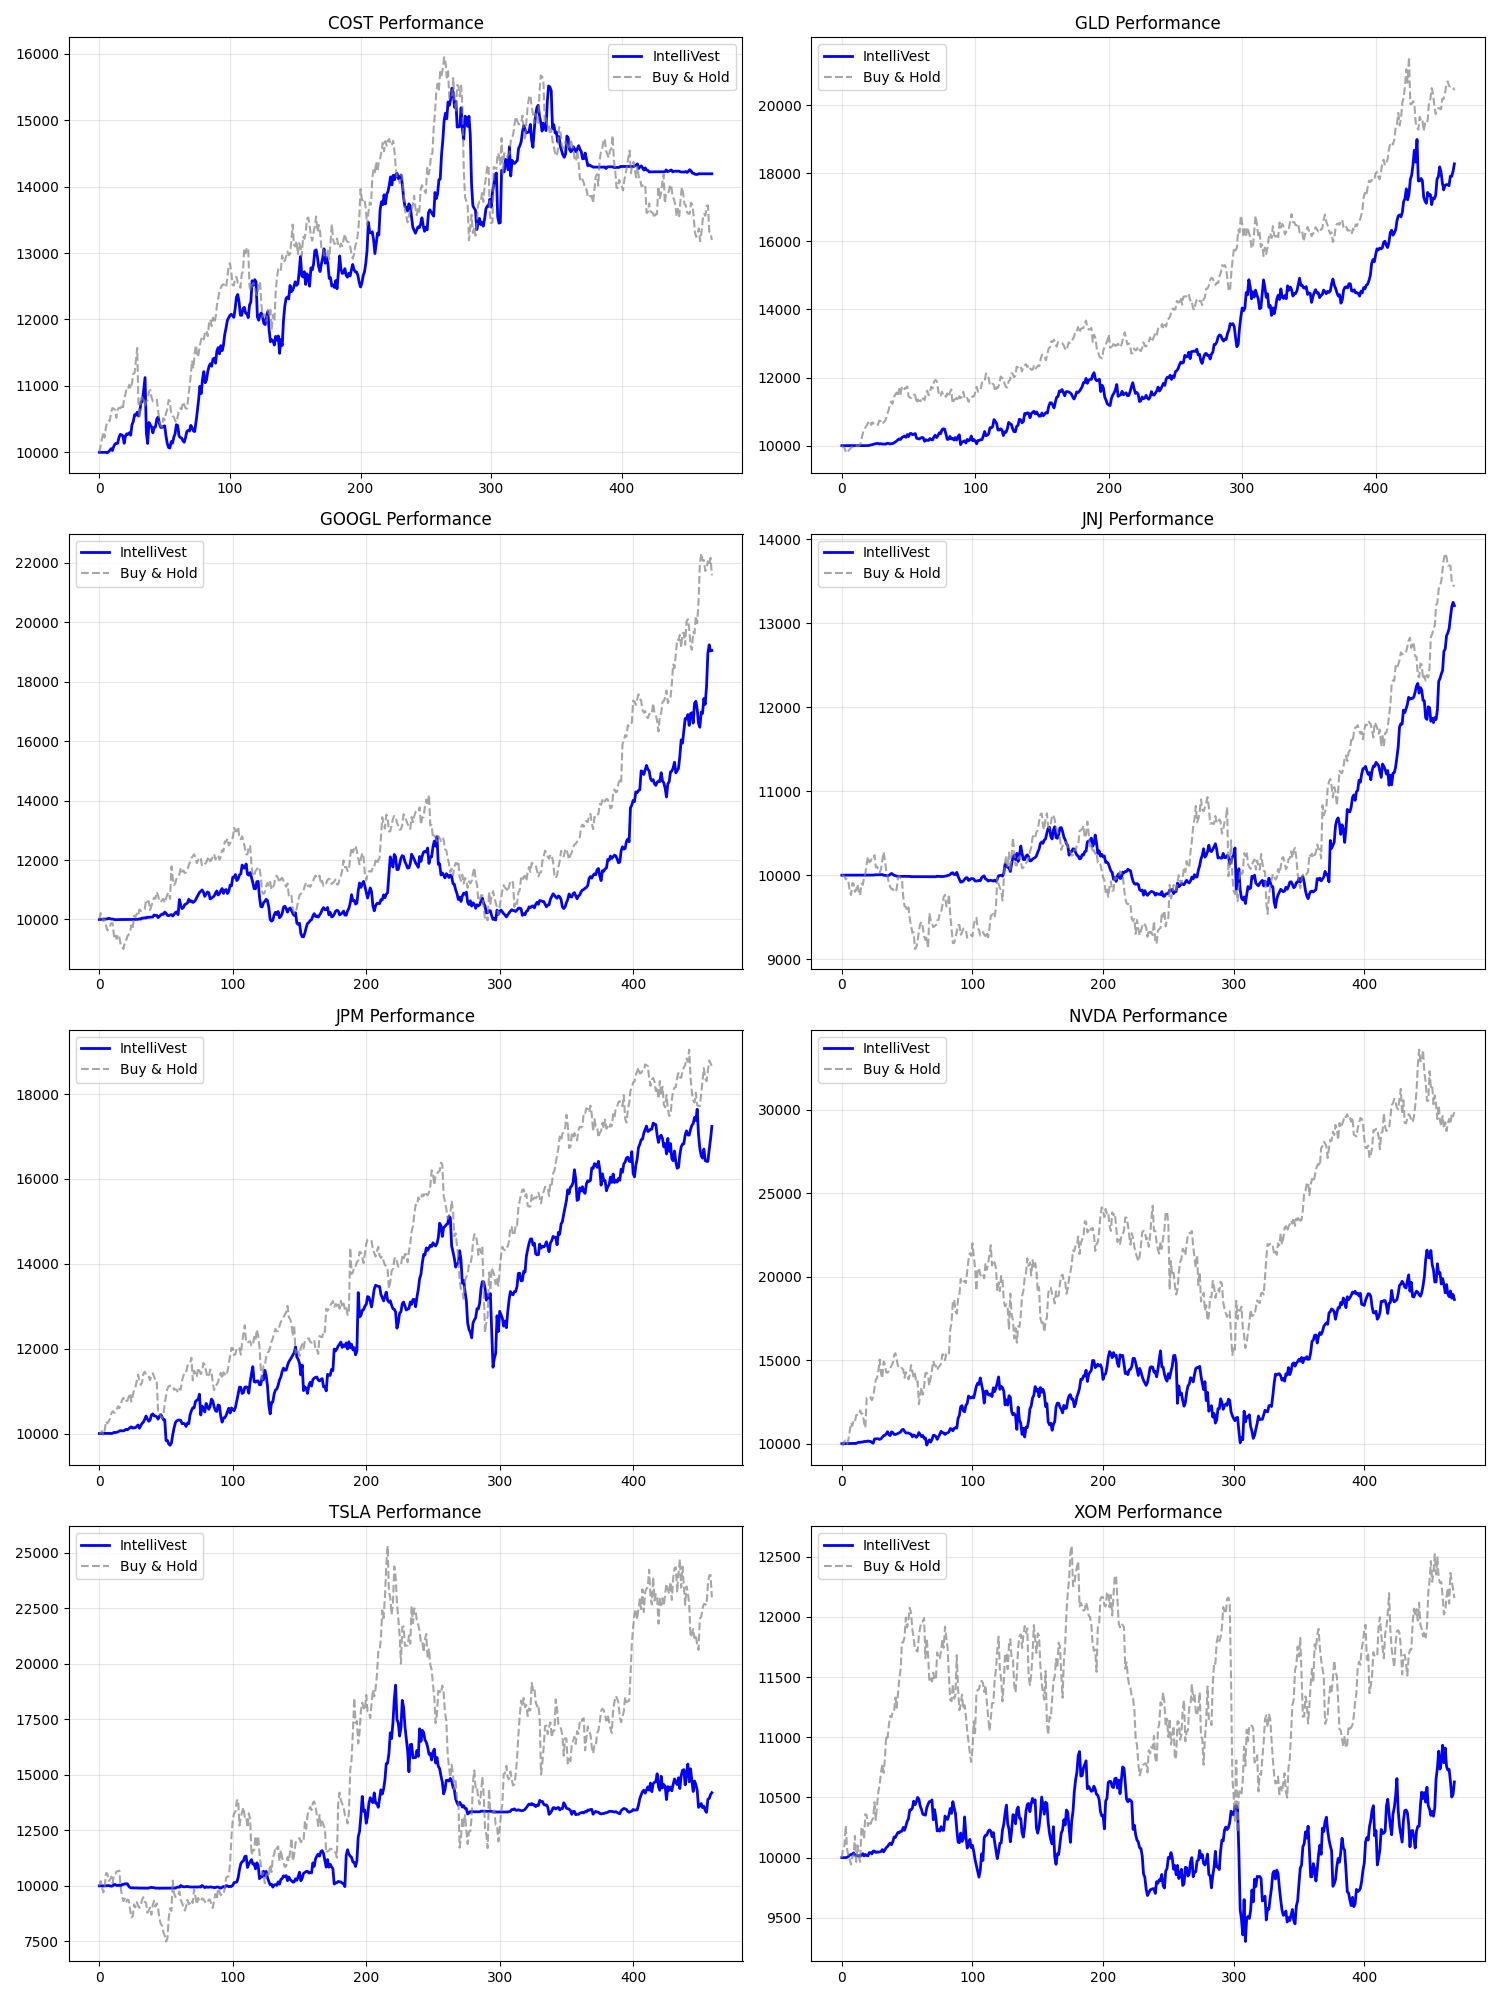
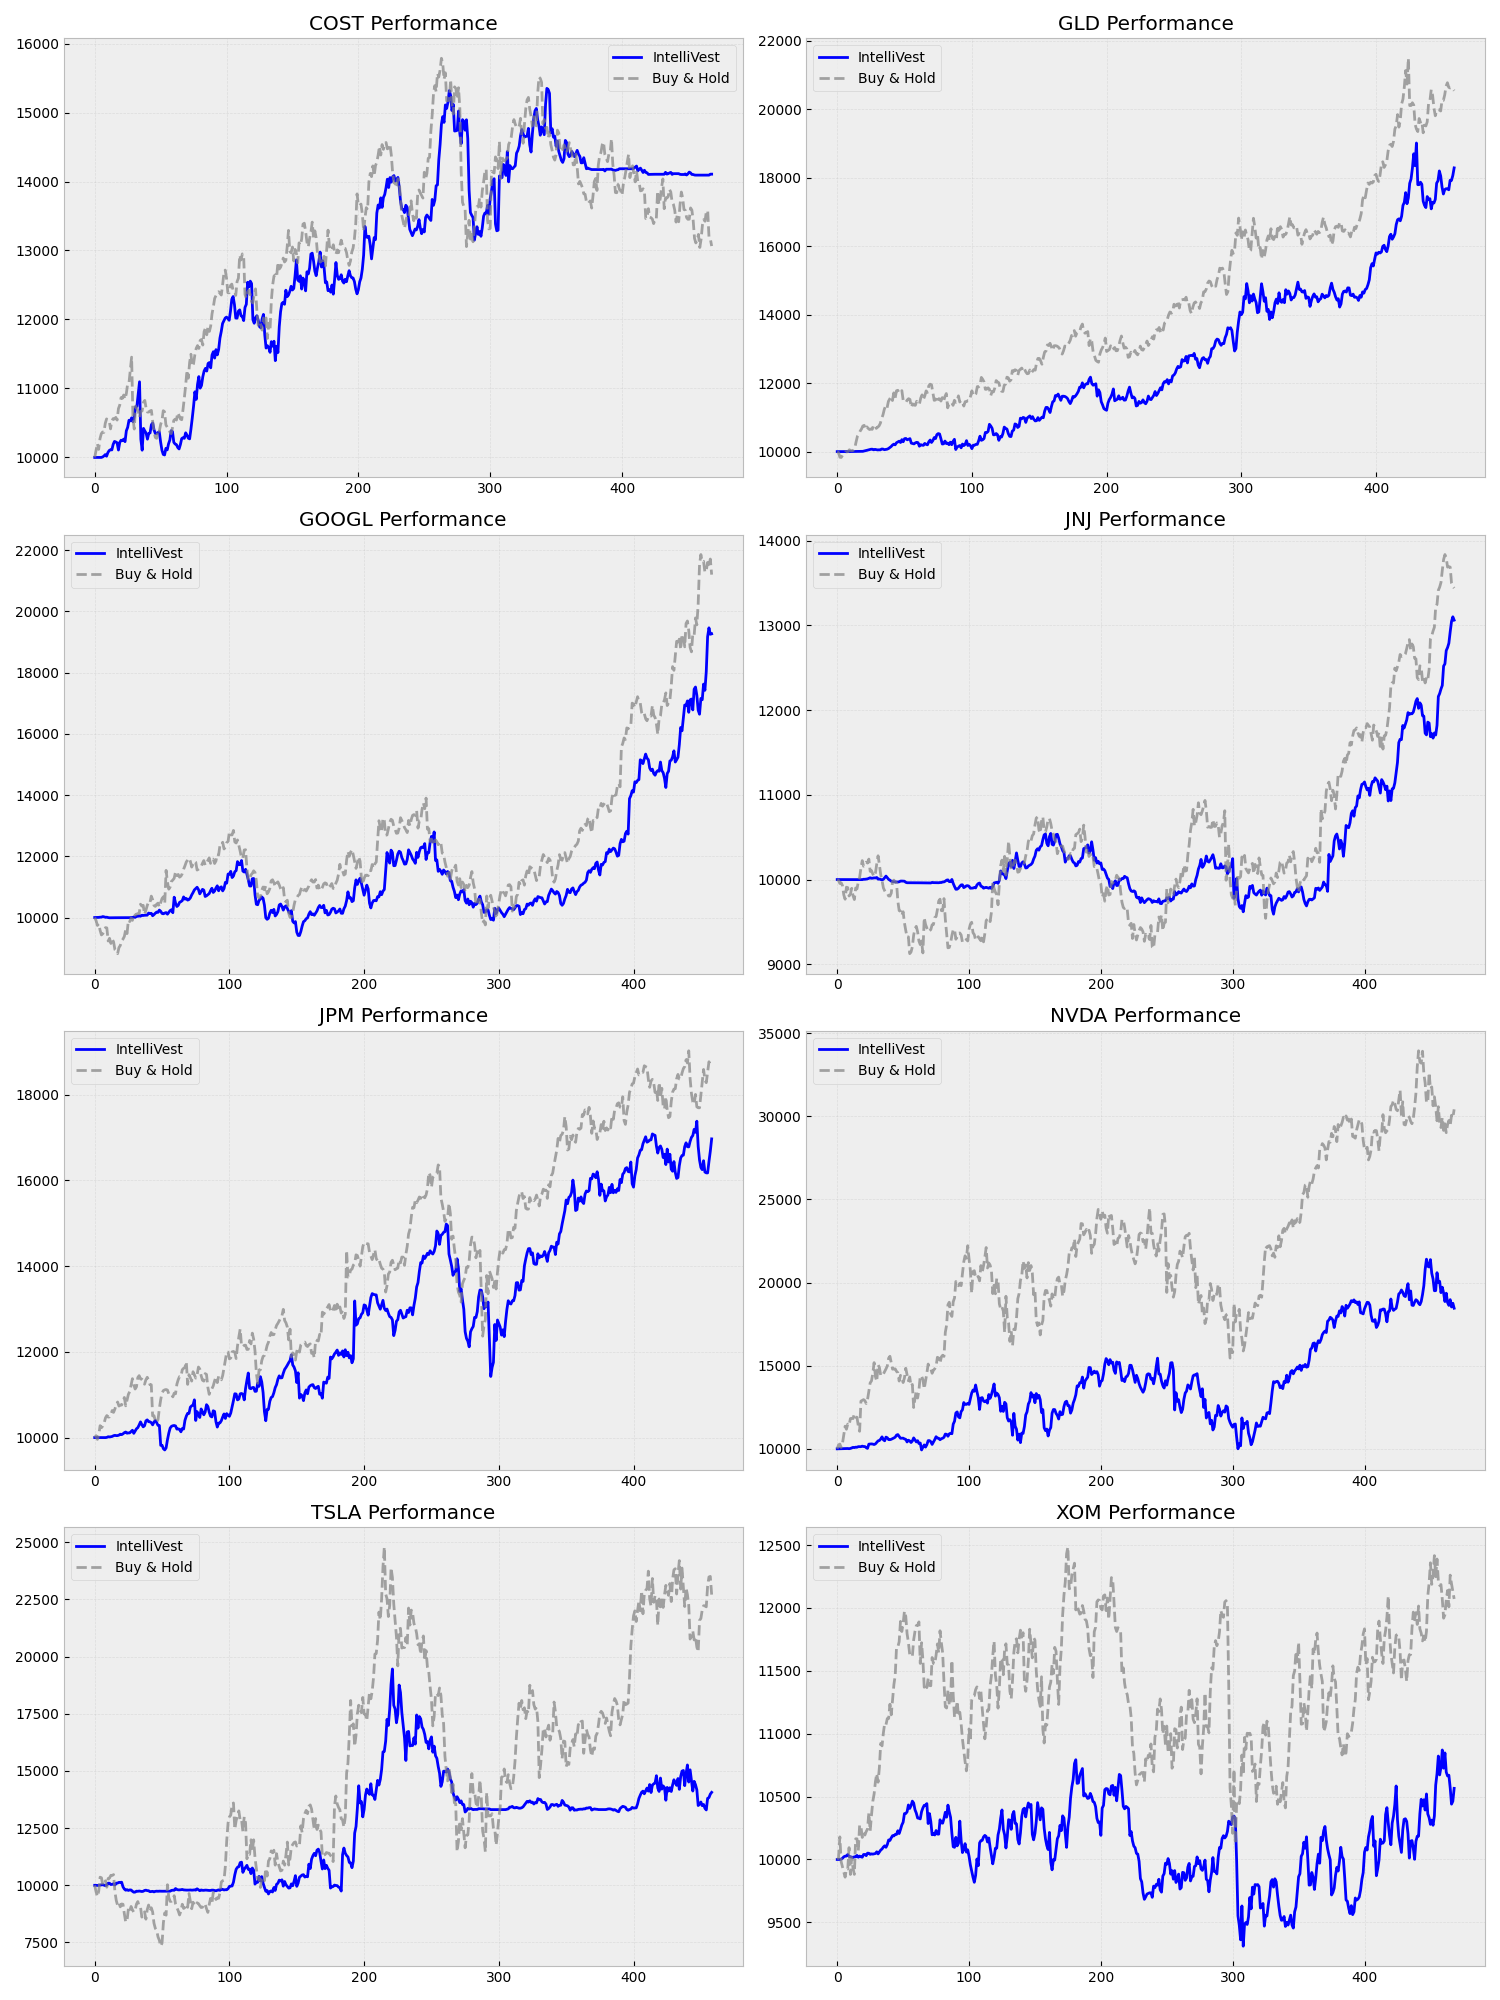
final version

diff --git a/visualization_engine.py b/visualization_engine.py
@@ -1,0 +1,179 @@
+import numpy as np
+import pandas as pd
+import matplotlib.pyplot as plt
+import matplotlib.patches as patches
+import seaborn as sns
+from scipy import signal
+import networkx as nx
+
+class VisualizationEngine:
+    def __init__(self):
+        plt.style.use('bmh')
+
+    def plot_all(self, price_data, specialist_dna):
+        print("Generating Model Visualizations...")
+        self.plot_architecture_concept()
+        self.plot_quantum_neuron()
+        self.plot_spectrogram_vs_price(price_data)
+        self.plot_game_tree()
+        self.plot_dna_heatmap(specialist_dna)
+        print("All visualization charts saved.")
+
+    def plot_architecture_concept(self):
+        """1. High-Level Architecture Flowchart"""
+        fig, ax = plt.subplots(figsize=(12, 4))
+        ax.set_xlim(0, 10)
+        ax.set_ylim(0, 4)
+        ax.axis('off')
+        
+        # Nodes
+        blocks = [
+            (1, "Market Data\n(Time Series)", 'gray'),
+            (3, "Fourier Optics\n(Spectrogram)", 'blue'),
+            (5, "Quantum Cortex\n(Interference)", 'purple'),
+            (7, "Adversarial Agent\n(Minimax)", 'red'),
+            (9, "Portfolio Manager\n(Execution)", 'green')
+        ]
+        
+        for x, label, color in blocks:
+            # Box
+            rect = patches.FancyBboxPatch((x-0.8, 1.5), 1.6, 1, boxstyle="round,pad=0.1", 
+                                          linewidth=2, edgecolor=color, facecolor='white')
+            ax.add_patch(rect)
+            # Text
+            ax.text(x, 2, label, ha='center', va='center', fontsize=10, fontweight='bold')
+            
+            # Arrows
+            if x < 9:
+                ax.arrow(x+0.9, 2, 0.2, 0, head_width=0.1, head_length=0.1, fc='black', ec='black')
+                
+        ax.set_title("IntelliVest System Architecture", fontsize=14)
+        plt.tight_layout()
+        plt.savefig("viz_1_architecture.png")
+
+    def plot_quantum_neuron(self):
+        """2. Quantum Neuron Physics (Phase Interference)"""
+        fig, ax = plt.subplots(1, 2, figsize=(12, 6))
+        
+        # Standard Neuron (Scalar)
+        ax[0].set_title("Standard Neuron (Scalar Sum)")
+        ax[0].arrow(0, 0, 0.5, 0.5, head_width=0.05, color='gray', label='Input 1')
+        ax[0].arrow(0.5, 0.5, 0.5, -0.2, head_width=0.05, color='gray', label='Input 2')
+        ax[0].text(0.5, 0.1, "Simple Addition\n1 + 1 = 2", ha='center')
+        ax[0].set_xlim(-0.5, 1.5); ax[0].set_ylim(-0.5, 1.5)
+        ax[0].axis('off')
+
+        # Quantum Neuron (Vector Interference)
+        ax[1].set_title("Quantum Neuron (Phase Interference)")
+        
+        # Constructive (Signal)
+        ax[1].arrow(0, 0.8, 0.4, 0.1, head_width=0.03, color='blue', label='Signal A')
+        ax[1].arrow(0.4, 0.9, 0.4, 0.1, head_width=0.03, color='blue', label='Signal B')
+        ax[1].text(0.4, 1.1, "Constructive (Trend)", color='blue', ha='center')
+        
+        # Destructive (Noise)
+        ax[1].arrow(0, 0.2, 0.4, 0.1, head_width=0.03, color='red', label='Noise A')
+        ax[1].arrow(0.4, 0.3, -0.4, -0.1, head_width=0.03, color='red', label='Noise B')
+        ax[1].text(0.4, 0.0, "Destructive (Noise Cancel)", color='red', ha='center')
+        
+        ax[1].set_xlim(-0.2, 1.0); ax[1].set_ylim(-0.2, 1.5)
+        ax[1].axis('off')
+        
+        plt.tight_layout()
+        plt.savefig("viz_2_quantum_physics.png")
+
+    def plot_spectrogram_vs_price(self, prices):
+        """3. The 'Eye' of the Model"""
+        # Generate dummy spectrogram from real price data snippet
+        # Use last 100 days of provided price data
+        snippet = prices[-200:]
+        returns = np.diff(np.log(snippet + 1e-8))
+        
+        fig, (ax1, ax2) = plt.subplots(2, 1, figsize=(10, 8), sharex=True)
+        
+        # Price Chart
+        ax1.plot(snippet, color='black')
+        ax1.set_title("Market View: Raw Price (Time Domain)")
+        ax1.set_ylabel("Price ($)")
+        ax1.grid(True, alpha=0.3)
+        
+        # Spectrogram
+        f, t, Sxx = signal.spectrogram(returns, fs=1.0, nperseg=15, noverlap=10)
+        ax2.pcolormesh(t, f, np.log(Sxx + 1e-10), shading='gouraud', cmap='inferno')
+        ax2.set_title("AI View: Spectrogram (Frequency Domain)")
+        ax2.set_ylabel("Volatility Frequency")
+        ax2.set_xlabel("Time (Days)")
+        
+        plt.tight_layout()
+        plt.savefig("viz_3_spectrogram.png")
+
+    def plot_game_tree(self):
+        """4. Adversarial Game Tree"""
+        G = nx.DiGraph()
+        
+        # Root
+        G.add_node("Market State", pos=(0, 4))
+        
+        # Actions (Max)
+        G.add_node("Buy", pos=(-2, 2))
+        G.add_node("Hold", pos=(0, 2))
+        G.add_node("Sell", pos=(2, 2))
+        
+        G.add_edge("Market State", "Buy")
+        G.add_edge("Market State", "Hold")
+        G.add_edge("Market State", "Sell")
+        
+        # Outcomes (Min) - Simplified for visual
+        outcomes = ["Crash", "Rally", "Flat"]
+        x_offsets = [-3, -2, -1, -0.5, 0, 0.5, 1, 2, 3]
+        
+        # Just drawing a few representative branches
+        G.add_node("Loss (-10)", pos=(-3, 0)) # Buy -> Crash
+        G.add_node("Profit (+10)", pos=(-1, 0)) # Buy -> Rally
+        
+        G.add_edge("Buy", "Loss (-10)")
+        G.add_edge("Buy", "Profit (+10)")
+        
+        pos = nx.get_node_attributes(G, 'pos')
+        
+        plt.figure(figsize=(10, 6))
+        nx.draw(G, pos, with_labels=True, node_size=3000, node_color='lightblue', 
+                font_size=10, font_weight='bold', edge_color='gray', arrowsize=20)
+        plt.title("Adversarial Search Tree (Minimax Concept)")
+        plt.savefig("viz_4_gametree.png")
+
+    def plot_dna_heatmap(self, specialist_dna):
+        """5. Specialist DNA Heatmap"""
+        # Convert JSON dict to DataFrame
+        # Rows: Tickers, Cols: Parameters
+        data = []
+        tickers = []
+        
+        # Select key params to visualize
+        keys = ['lookback_window', 'learning_rate', 'buy_threshold', 'input_threshold']
+        
+        for ticker, dna in specialist_dna.items():
+            if not dna: continue
+            row = [dna.get(k, 0) for k in keys]
+            data.append(row)
+            tickers.append(ticker)
+            
+        df = pd.DataFrame(data, columns=keys, index=tickers)
+        
+        # Normalize columns for heatmap visualization (0 to 1 scaling)
+        df_norm = (df - df.min()) / (df.max() - df.min())
+        
+        plt.figure(figsize=(10, 8))
+        sns.heatmap(df_norm, annot=df, fmt=".2f", cmap="viridis", linewidths=.5)
+        plt.title("Specialist DNA: No Universal Algorithm")
+        plt.savefig("viz_5_dna_heatmap.png")
+
+if __name__ == "__main__":
+    # Test run with dummy data
+    viz = VisualizationEngine()
+    dummy_prices = np.cumsum(np.random.randn(200)) + 100
+    dummy_dna = {
+        'NVDA': {'lookback_window': 30, 'learning_rate': 0.08, 'buy_threshold': 20, 'input_threshold': 0.7},
+        'JNJ': {'lookback_window': 60, 'learning_rate': 0.02, 'buy_threshold': 10, 'input_threshold': 0.6}
+    }
+    viz.plot_all(dummy_prices, dummy_dna)

diff --git a/analytics_engine.py b/analytics_engine.py
@@ -1,0 +1,141 @@
+import numpy as np
+import pandas as pd
+import matplotlib.pyplot as plt
+from scipy import stats
+import seaborn as sns
+
+# Set style for professional charts
+plt.style.use('bmh')
+
+class AnalyticsEngine:
+    def __init__(self, model_equity, benchmark_equity, risk_free_rate=0.04):
+        self.model_equity = np.array(model_equity)
+        self.benchmark_equity = np.array(benchmark_equity)
+        self.rf_daily = risk_free_rate / 252
+        
+        # Calculate Returns
+        self.model_returns = pd.Series(self.model_equity).pct_change().fillna(0)
+        self.bench_returns = pd.Series(self.benchmark_equity).pct_change().fillna(0)
+        
+    def _calculate_drawdown(self, equity_curve):
+        """Calculates the underwater curve (percentage drop from peak)."""
+        series = pd.Series(equity_curve)
+        running_max = series.cummax()
+        drawdown = (series - running_max) / running_max
+        return drawdown
+
+    def _calculate_rolling_sharpe(self, returns, window=60):
+        """Calculates Sharpe Ratio over a rolling window."""
+        rolling_mean = returns.rolling(window).mean()
+        rolling_std = returns.rolling(window).std()
+        # Annualized
+        return (rolling_mean - self.rf_daily) / rolling_std * np.sqrt(252)
+
+    def generate_full_report(self, ticker="ASSET"):
+        """
+        Generates a 4-panel dashboard and prints statistical stats.
+        """
+        self.print_statistics(ticker)
+        self.plot_dashboard(ticker)
+
+    def print_statistics(self, ticker):
+        print(f"\n{'='*60}")
+        print(f"   ADVANCED ANALYTICS REPORT: {ticker}")
+        print(f"{'='*60}")
+        
+        m_ret = self.model_returns
+        b_ret = self.bench_returns
+        
+        # 1. CAGR (Compound Annual Growth Rate)
+        # Approx days
+        days = len(self.model_equity)
+        years = days / 252
+        cagr_m = (self.model_equity[-1] / self.model_equity[0]) ** (1/years) - 1
+        cagr_b = (self.benchmark_equity[-1] / self.benchmark_equity[0]) ** (1/years) - 1
+        
+        # 2. Max Drawdown
+        dd_m = self._calculate_drawdown(self.model_equity).min()
+        dd_b = self._calculate_drawdown(self.benchmark_equity).min()
+        
+        # 3. Sortino Ratio (Penalizes only downside volatility)
+        downside_returns = m_ret[m_ret < 0]
+        downside_std = downside_returns.std()
+        sortino = (m_ret.mean() - self.rf_daily) / downside_std * np.sqrt(252) if downside_std > 0 else 0
+        
+        # 4. Beta (Correlation to Market)
+        cov_matrix = np.cov(m_ret, b_ret)
+        beta = cov_matrix[0, 1] / cov_matrix[1, 1]
+        
+        # 5. Alpha (Jensen's Alpha)
+        # Alpha = R_p - (R_f + Beta * (R_m - R_f))
+        annual_m_ret = m_ret.mean() * 252
+        annual_b_ret = b_ret.mean() * 252
+        alpha = annual_m_ret - (0.04 + beta * (annual_b_ret - 0.04))
+        
+        print(f"{'METRIC':<20} | {'MODEL':<15} | {'MARKET':<15}")
+        print("-" * 60)
+        print(f"{'CAGR':<20} | {cagr_m:>14.2%} | {cagr_b:>14.2%}")
+        print(f"{'Max Drawdown':<20} | {dd_m:>14.2%} | {dd_b:>14.2%}")
+        print(f"{'Sharpe Ratio':<20} | {self._get_sharpe(m_ret):>14.2f} | {self._get_sharpe(b_ret):>14.2f}")
+        print(f"{'Sortino Ratio':<20} | {sortino:>14.2f} | {'--':>14}")
+        print("-" * 60)
+        print(f"{'Beta':<20} | {beta:>14.2f}")
+        print(f"{'Alpha (Annualized)':<20} | {alpha:>14.2%}")
+        print(f"{'='*60}\n")
+
+    def _get_sharpe(self, returns):
+        if returns.std() == 0: return 0.0
+        return (returns.mean() - self.rf_daily) / returns.std() * np.sqrt(252)
+
+    def plot_dashboard(self, ticker):
+        fig, axes = plt.subplots(2, 2, figsize=(18, 12))
+        fig.suptitle(f"IntelliVest Performance Analysis: {ticker}", fontsize=16)
+        
+        # Plot 1: Equity Curve (The Growth)
+        ax1 = axes[0, 0]
+        ax1.plot(self.model_equity, label='Quantum Cortex', color='#1f77b4', linewidth=2)
+        ax1.plot(self.benchmark_equity, label='Buy & Hold', color='gray', linestyle='--', alpha=0.7)
+        ax1.set_title("Equity Growth ($10k Start)")
+        ax1.set_ylabel("Portfolio Value ($)")
+        ax1.legend()
+        ax1.grid(True, alpha=0.3)
+        
+        # Plot 2: Drawdown (The Risk)
+        # Shows "Underwater" periods. 
+        # Crucial for proving safety.
+        ax2 = axes[0, 1]
+        dd_model = self._calculate_drawdown(self.model_equity) * 100
+        dd_bench = self._calculate_drawdown(self.benchmark_equity) * 100
+        
+        ax2.fill_between(range(len(dd_model)), dd_model, 0, color='#1f77b4', alpha=0.3, label='Quantum DD')
+        ax2.plot(dd_bench, color='red', alpha=0.6, linewidth=1, label='Market DD')
+        ax2.set_title("Drawdown Profile (Risk)")
+        ax2.set_ylabel("Drawdown %")
+        ax2.legend()
+        ax2.grid(True, alpha=0.3)
+        
+        # Plot 3: Return Distribution (The Topology)
+        # Shows non-gaussian nature.
+        ax3 = axes[1, 0]
+        sns.kdeplot(self.model_returns, ax=ax3, fill=True, color='#1f77b4', label='Quantum', clip=(-0.05, 0.05))
+        sns.kdeplot(self.bench_returns, ax=ax3, fill=True, color='gray', label='Market', clip=(-0.05, 0.05))
+        ax3.set_title("Daily Return Distribution (Topology)")
+        ax3.set_xlabel("Daily Return")
+        ax3.legend()
+        
+        # Plot 4: Rolling Sharpe (The Consistency)
+        # Shows if performance is steady or lucky.
+        ax4 = axes[1, 1]
+        roll_sharpe_m = self._calculate_rolling_sharpe(self.model_returns)
+        roll_sharpe_b = self._calculate_rolling_sharpe(self.bench_returns)
+        
+        ax4.plot(roll_sharpe_m, label='Quantum (60d Rolling)', color='#1f77b4')
+        ax4.plot(roll_sharpe_b, label='Market (60d Rolling)', color='gray', alpha=0.5)
+        ax4.axhline(0, color='black', linewidth=1, linestyle='-')
+        ax4.set_title("Rolling Risk-Adjusted Return (Sharpe)")
+        ax4.legend()
+        ax4.grid(True, alpha=0.3)
+        
+        plt.tight_layout(rect=[0, 0.03, 1, 0.95])
+        plt.savefig(f"{ticker}_tearsheet.png")
+        print(f"[Chart] Saved dashboard to '{ticker}_tearsheet.png'")

diff --git a/final_analysis.py b/final_analysis.py
@@ -6,6 +6,7 @@ import json
 import os
 from main_intellivest import run_simulation
 from statistical_analysis import StatisticalAnalyzer
+from analytics_engine import AnalyticsEngine
 
 # Default Physics Defaults
 DEFAULT_PHYSICS = {
@@ -102,7 +103,11 @@ def run_final_analysis():
             # print(f"Bench error: {e}")
             bench_ret = 0.0
             bench_curve = [10000] * len(model_curve)
+        # Initialize the engine for THIS ticker
+        engine = AnalyticsEngine(model_curve, bench_curve)
 
+        # Generate the 2x2 dashboard and print the fancy stats
+        engine.generate_full_report(ticker)
         print("Done.")
         
         summary_data.append({
@@ -160,6 +165,8 @@ def run_final_analysis():
         plt.tight_layout()
         plt.savefig('comparison_chart.png')
         print("Chart saved.")
+        # 2. Run Advanced Analytics
+
     
     # === RUN STATISTICAL ANALYSIS ===
     # We analyze the aggregate portfolio vs aggregate benchmark
